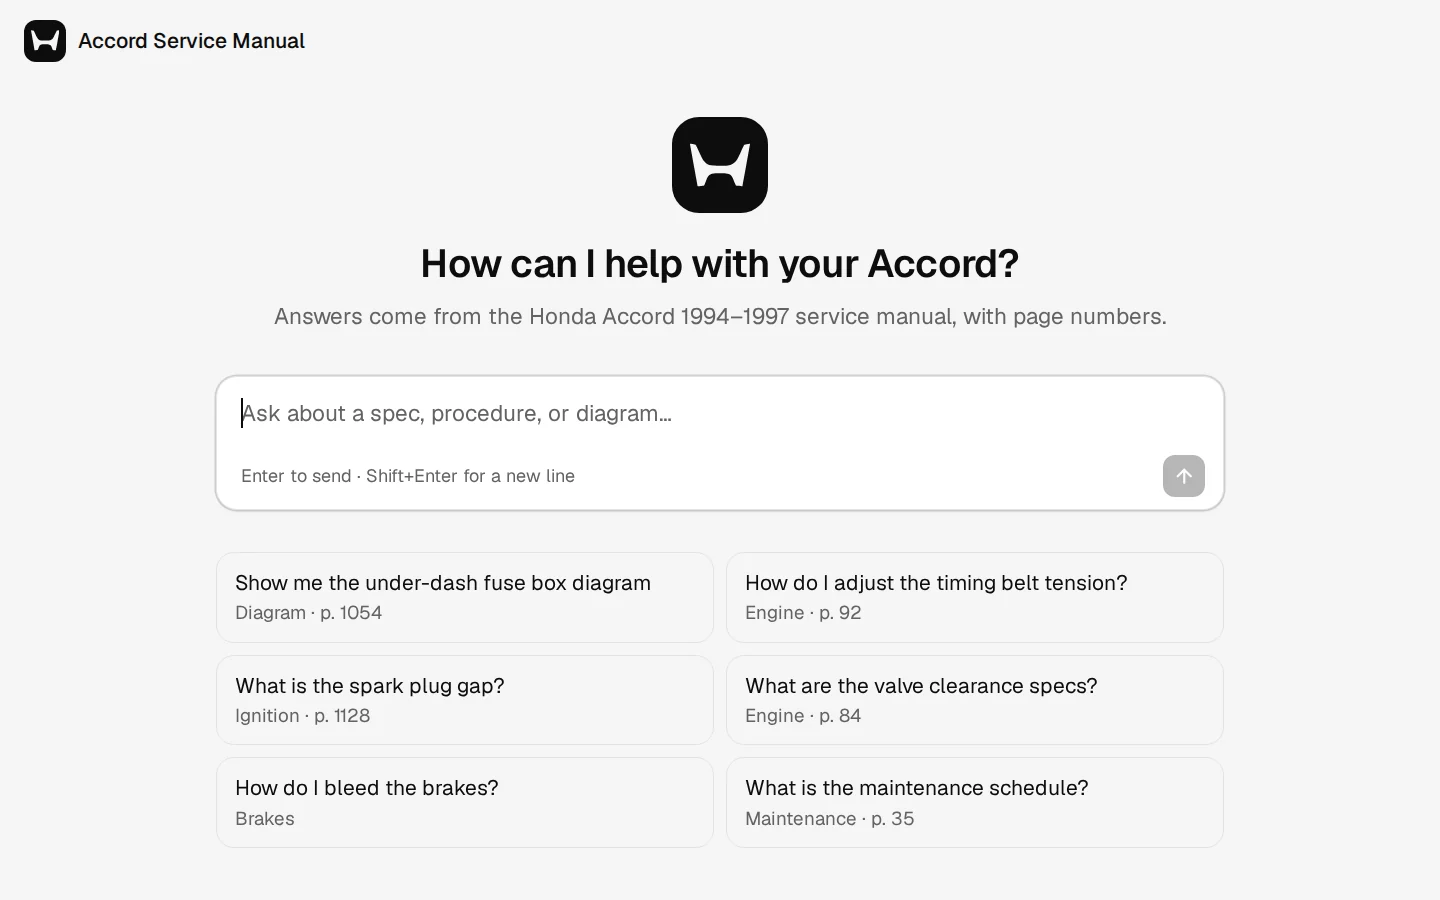
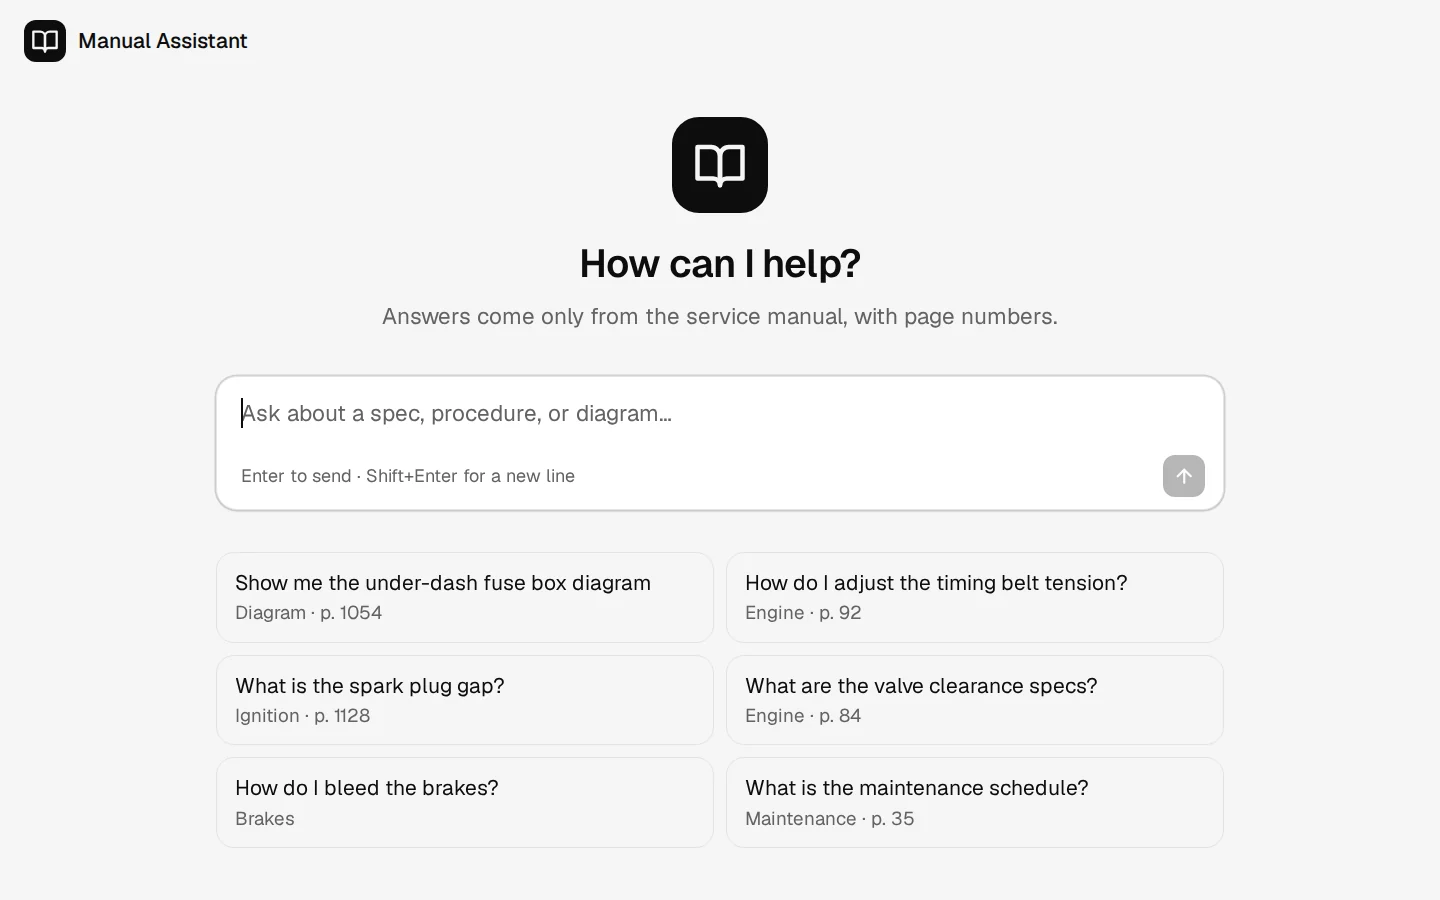
Make the chatbot case study brand-neutral
Screenshots now show the generic Manual Assistant brand, the copy describes the settings file, and the Honda and Accord names are gone.

diff --git a/work/docs-chatbot/index.html b/work/docs-chatbot/index.html
@@ -106,7 +106,7 @@ a:focus-visible{outline:2px solid var(--ink);outline-offset:3px;border-radius:4p
       <div class="msg me">How do I replace the ball joint?</div>
       <div class="msg bot">1. Remove the knuckle, then the hub unit (page 664).
 2. Pry the set ring off and remove the boot.
-3. Press the ball joint out with the special tools…<span class="page"><span aria-hidden="true"></span>Manual page 664</span></div>
+3. Press the ball joint out with the special tools…<span class="page"><span aria-hidden="true"></span>Page 664</span></div>
       <div class="msg me">Who won the 1998 World Cup?</div>
       <div class="msg bot">I am sorry, but I can only answer questions using our official documentation.</div>
     </div>
@@ -119,7 +119,7 @@ a:focus-visible{outline:2px solid var(--ink);outline-offset:3px;border-radius:4p
 
   <section class="block">
     <div class="head"><h2>How it works</h2><span class="num">01 / 04</span></div>
-    <p class="lede">A small Python server and one HTML page. Pointing it at a different document takes a new PDF, a new title and set of suggested questions, and one line in the prompt.</p>
+    <p class="lede">A small Python server and one HTML page. To point it at a different document, you swap the PDF and edit one settings file with the bot's name, logo, suggested questions, and relevance cut-off.</p>
     <ol class="steps">
       <li><b>Index</b>The server splits the PDF into passages (2,389 for the manual) and turns them into vectors with a small open model. It builds the index once, in about five minutes for 1,379 pages, and loads it in about ten seconds after that.</li>
       <li><b>Retrieve</b>Each question pulls the 20 closest passages. NVIDIA's reranker reads them against the question and keeps the best five.</li>
@@ -206,7 +206,7 @@ images = extract_images(pages) if (intent_has_visual or context_has_phrase) and 
   </section>
 </main>
 
-<footer><div class="wrap">The test document is the Honda Accord service manual for 1994 to 1997 models. I don't reproduce its pages here, and the source code stays private. Honda and the H mark belong to Honda Motor Co.; this is an independent project.</div></footer>
+<footer><div class="wrap">The test document is a scanned car service manual. I don't reproduce its pages here, and the source code stays private.</div></footer>
 
 </body>
 </html>
